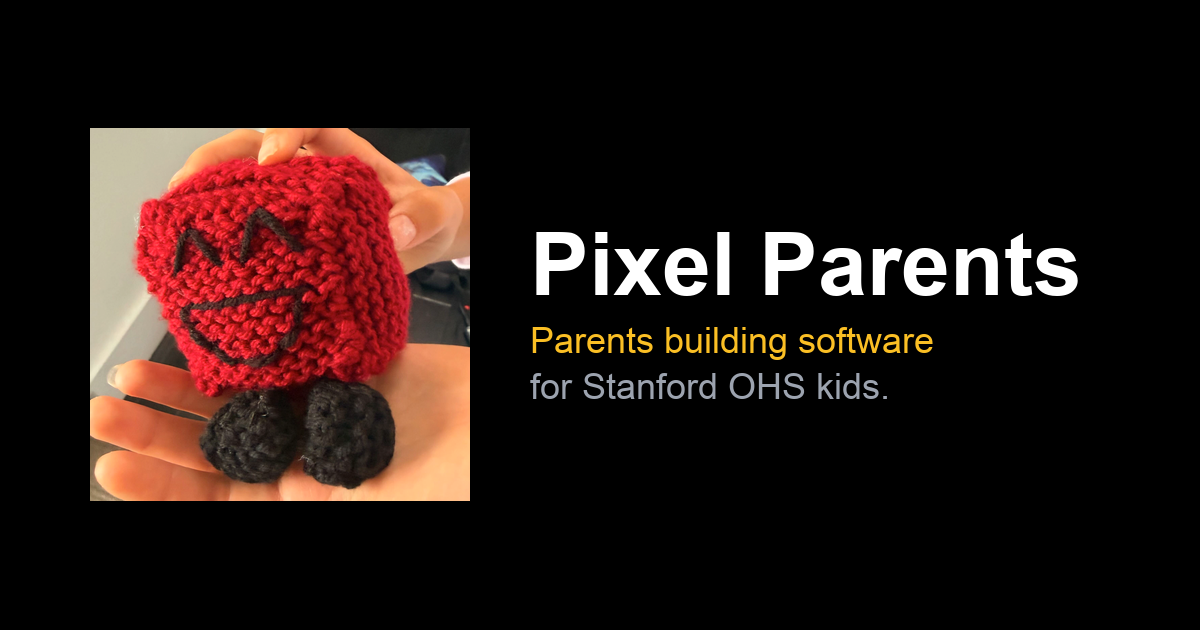
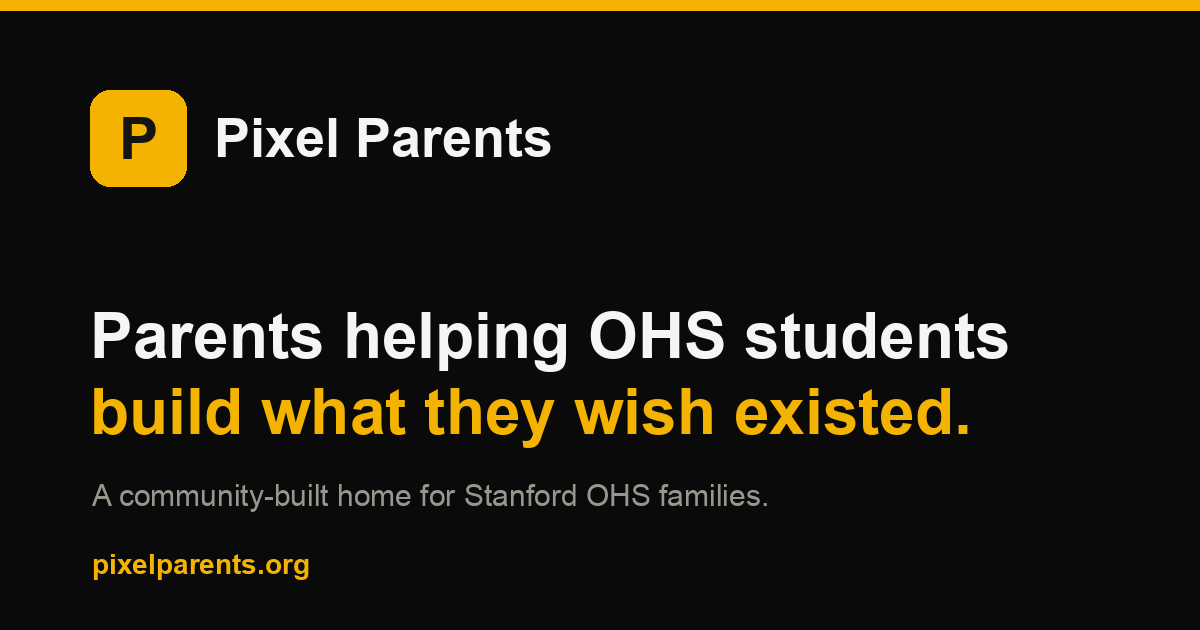
fix(stats): count only completed signups so directory/dashboard match the landing (#158)
getStats counted all signups incl. abandoned drafts (20 parents) while the
landing hero counts completed-only (6). Filter getStats (fast + robust paths)
to extra.notified='true'; children scoped to completed families. Verified prod
now returns 6/5/4. Also refresh the social card with home-page-aligned copy.

Changed region(s): [[0.0617, 0.1206, 0.8942, 0.8143], [0.0, 0.0, 1.0, 0.0302], [0.0617, 0.8746, 0.2775, 0.9349]]

diff --git a/lib/db/aggregates.ts b/lib/db/aggregates.ts
@@ -125,11 +125,18 @@ export async function getStats(filters: Filters = {}): Promise<Stats> {
   // robust path below on any error (e.g. a pre-families schema).
   if (hasDatabase() && !filtered) {
     try {
+      // Count ONLY completed signups (welcome step fired → extra.notified='true'),
+      // never abandoned/draft rows — otherwise the public headline stats inflate
+      // (e.g. 20 "parents" when only ~6 families actually finished), diverging from
+      // the landing hero which already counts completed-only. Children are counted
+      // only when they belong to a completed family.
       const rows = (await getSql()`
         SELECT
-          (SELECT count(*) FROM signups)::int AS s,
-          (SELECT count(DISTINCT family_id) FROM signups)::int AS f,
-          (SELECT count(*) FROM children)::int AS c
+          (SELECT count(*) FROM signups WHERE (extra->>'notified') = 'true')::int AS s,
+          (SELECT count(DISTINCT family_id) FROM signups WHERE (extra->>'notified') = 'true')::int AS f,
+          (SELECT count(*) FROM children ch WHERE EXISTS (
+             SELECT 1 FROM signups s WHERE s.family_id = ch.family_id AND (s.extra->>'notified') = 'true'
+          ))::int AS c
       `) as Array<{ s: number; f: number; c: number }>;
       const r = rows[0];
       if (r) {
@@ -158,7 +165,8 @@ export async function getStats(filters: Filters = {}): Promise<Stats> {
   }
   const sql = getSql();
   const { conds, params } = signupConds(filters);
-  const where = whereClause([], conds);
+  // Completed-only, matching the fast path above — never count draft/abandoned rows.
+  const where = whereClause(["(extra->>'notified') = 'true'"], conds);
 
   // Each parent is a signup row; a family groups one or more parents.
   const sRows = (await sql.query(
@@ -179,9 +187,13 @@ export async function getStats(filters: Filters = {}): Promise<Stats> {
   let children = 0;
   if (await tableExists("children")) {
     const scope = childScope(conds);
+    // Only children of a COMPLETED family, matching the fast path.
+    const completedFamily =
+      "EXISTS (SELECT 1 FROM signups s WHERE s.family_id = children.family_id AND (s.extra->>'notified') = 'true')";
+    const cw = scope ? `WHERE ${scope} AND ${completedFamily}` : `WHERE ${completedFamily}`;
     children = await safeQuery(async () => {
       const rows = (await sql.query(
-        `SELECT count(*)::int AS c FROM children ${scope ? `WHERE ${scope}` : ""}`,
+        `SELECT count(*)::int AS c FROM children ${cw}`,
         params,
       )) as Array<{ c: number }>;
       return rows[0]?.c ?? 0;

diff --git a/PRD/fix-count-discrepancy.md b/PRD/fix-count-discrepancy.md
@@ -1,0 +1,11 @@
+## Progress Update as of June 30, 2026 — 8:53 PM Pacific
+
+### Summary of changes since last update
+Fixed the data discrepancy Daniel flagged: the landing hero showed "Join 6 other Pixel Parents" (completed-only, correct) while the directory + dashboard showed 20 parents / 19 families / 7 kids because getStats counted ALL signups including 14 abandoned draft rows. Filtered getStats (both the fast unfiltered path and the robust/filtered path) to completed signups only (extra.notified='true'), and children to those belonging to a completed family. Verified against prod: now returns 6 parents / 5 families / 4 kids, matching the landing. Also regenerated the social card (opengraph + twitter) with home-page-aligned copy per Daniel's note.
+
+### Detail of changes made:
+- lib/db/aggregates.ts getStats: fast path subqueries + robust-path signups/families where-clause + children query now filter completed signups (children via EXISTS on a completed family). Mirrors the COMPLETED_SIGNUP_SQL marker used by lib/db/signups.ts count fns.
+- app/opengraph-image.png + app/twitter-image.png: regenerated — "Pixel Parents / Parents helping OHS students build what they wish existed / A community-built home for Stanford OHS families / pixelparents.org".
+
+### Potential concerns to address:
+- getBreakdowns distributions (by state/affiliation/grade/skillset) still count all signups — lower-visibility than the headline stats; noted as a follow-up to filter for full consistency.